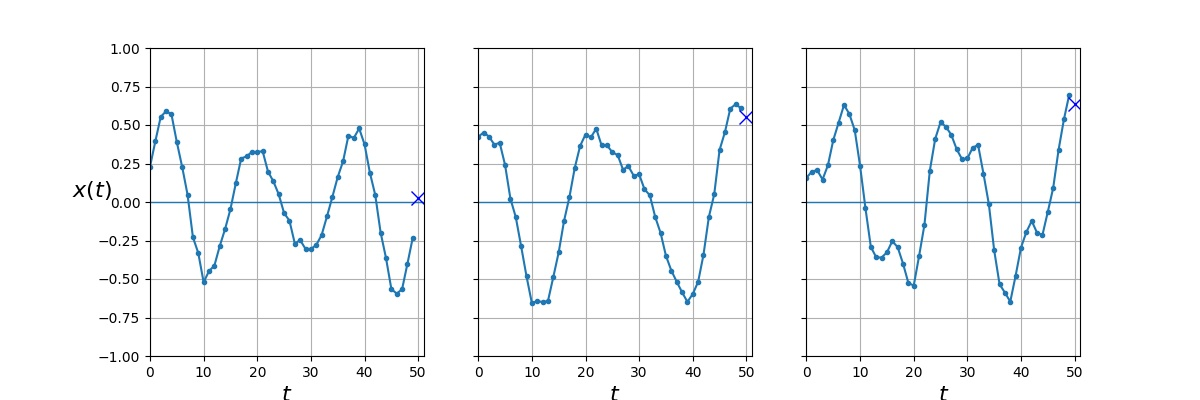
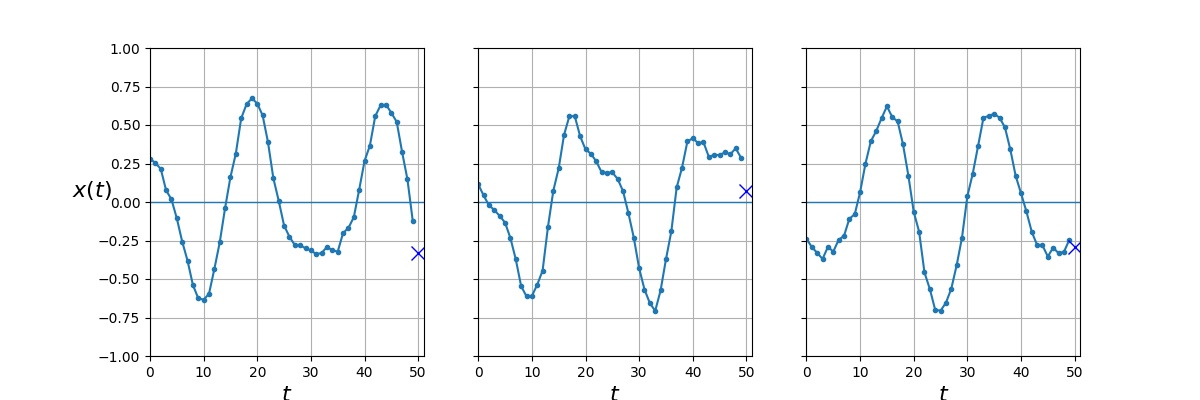
Committed 2021/06/13

diff --git a/Hands on Machine Learning2/Chapter15  - Processing Sequences/SimpleRNN.py b/Hands on Machine Learning2/Chapter15  - Processing Sequences/SimpleRNN.py
@@ -2,6 +2,9 @@ import Time_Series_Generator as time
 from tensorflow.keras.models import Sequential
 from tensorflow.keras.layers import Flatten, Dense
 import matplotlib.pyplot as plt
+from tensorflow.keras.losses import mean_squared_error
+import numpy as np
+import tensorflow as tf
 
 number_of_steps = 50
 series = time.generate_time_series(batch_size=10000, number_of_steps=number_of_steps + 1)
@@ -35,5 +38,19 @@ for col in range(3):
 plt.savefig("time_series_plot.jpg")
 plt.show()
 
+y_prediction = X_valid[:, -1]
+y_prediction_mean = np.mean(mean_squared_error(y_true=y_valid, y_pred=y_prediction))
+print(y_prediction_mean)
+
+plot_series(X_valid[0, :, 0], y_valid[0, 0], y_prediction[0, 0])
+plt.show()
+
+
+np.random.seed(42)
+tf.random.set_seed(42)
+
 model = Sequential([Flatten(input_shape=[50, 1]),
                     Dense(units=1)])
+
+model.compile(loss="mse", optimizer="adam")
+history = model.fit(x=X_train, y=y_train, epochs=20, validation_data=(X_valid, y_valid))
